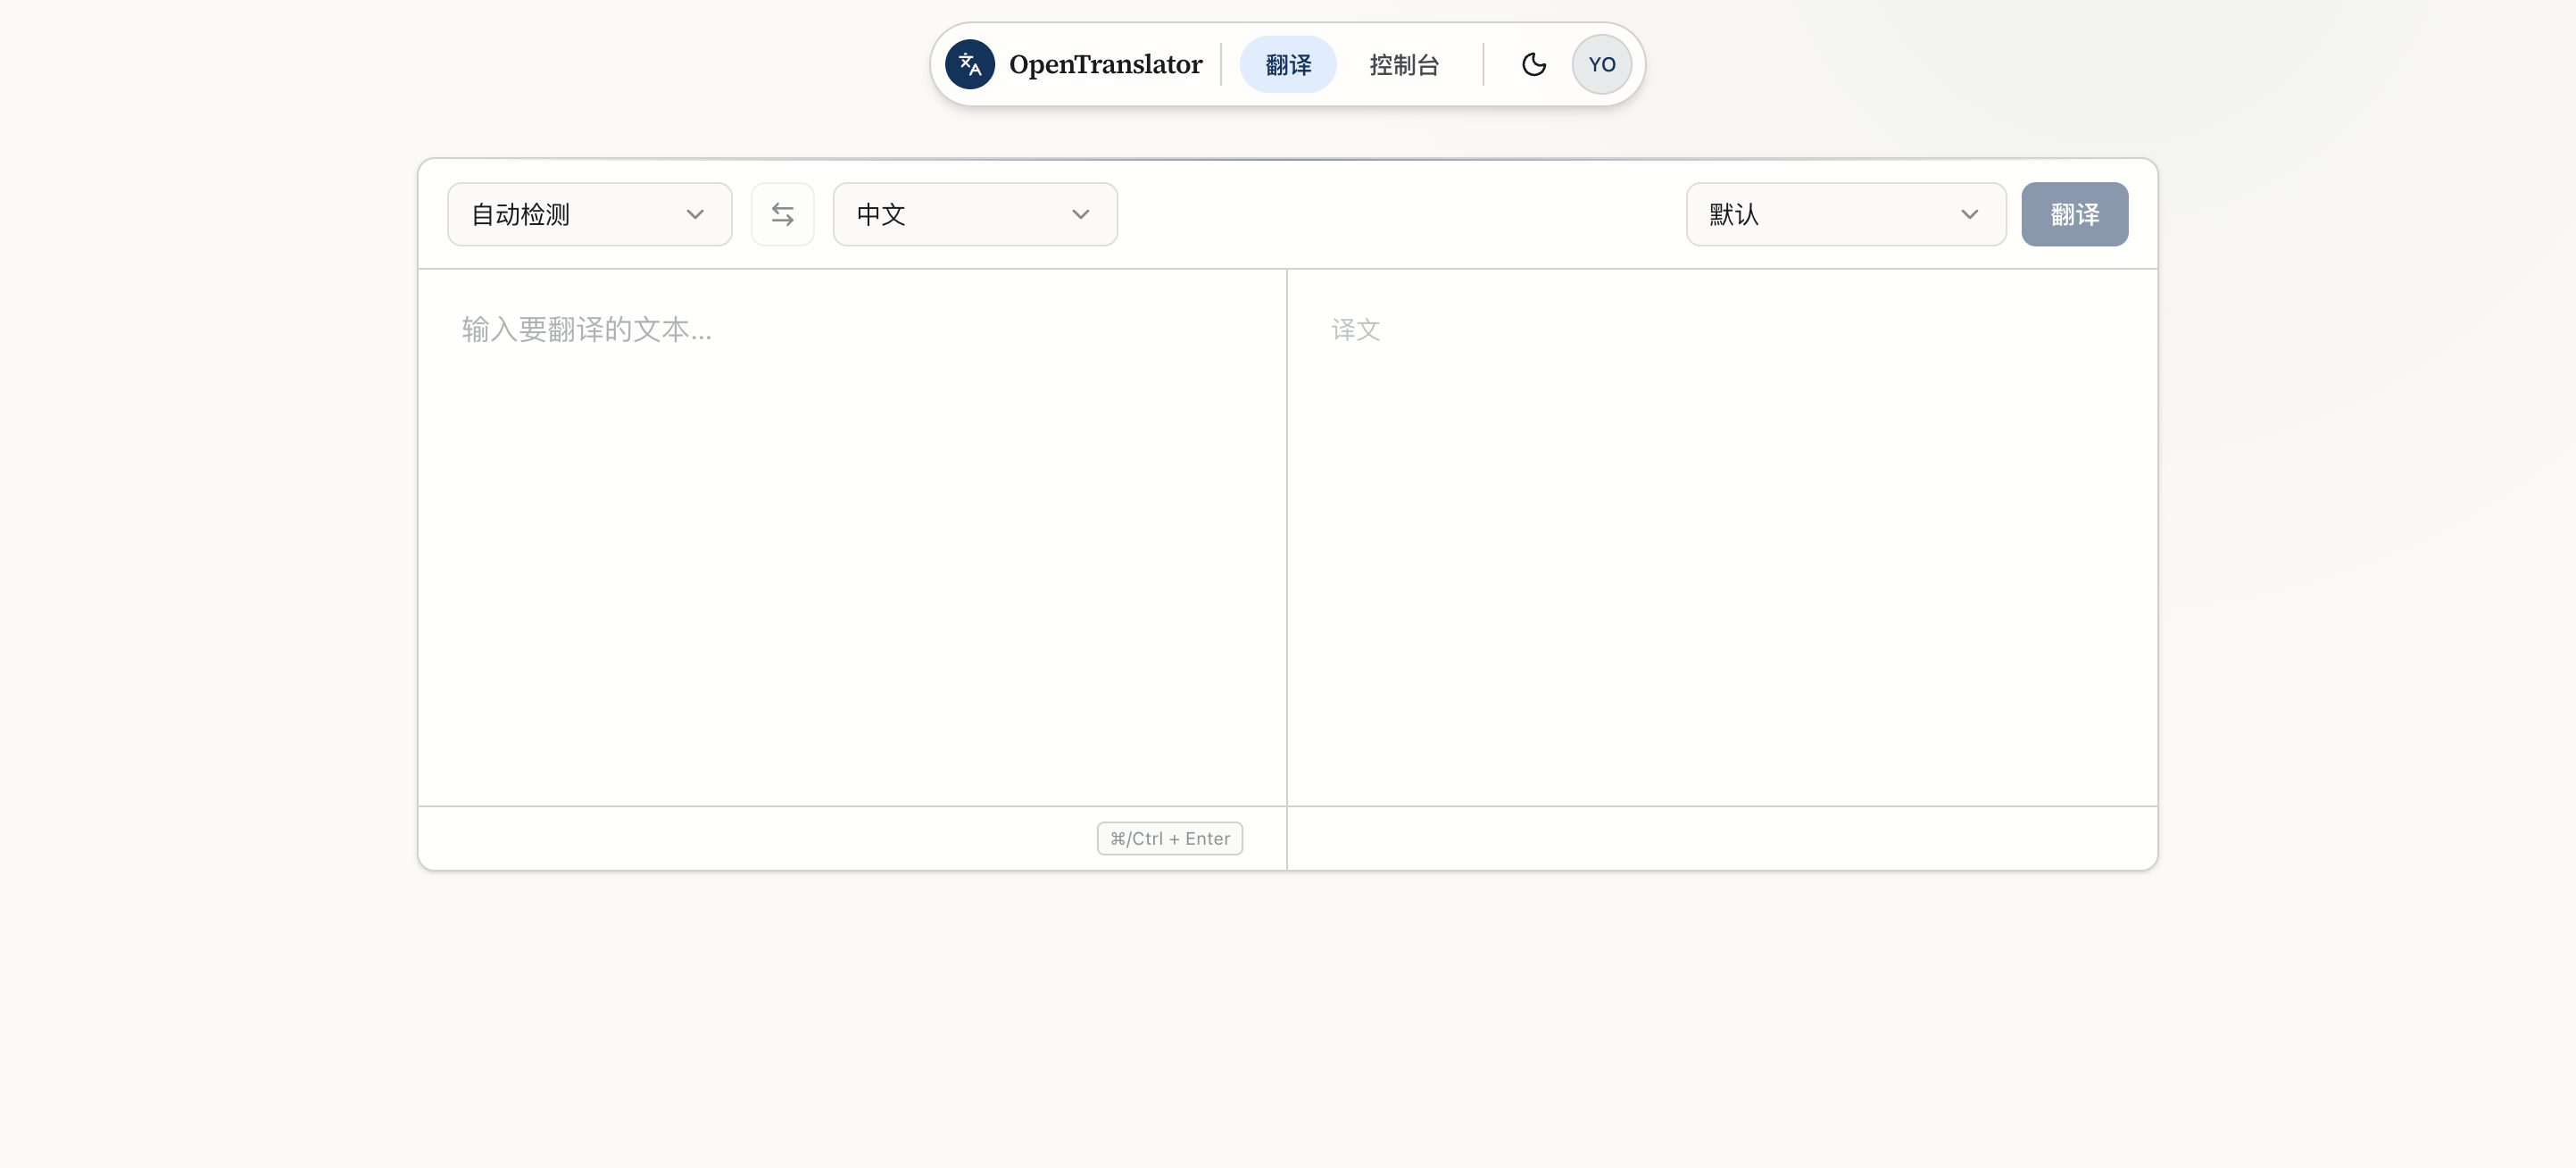
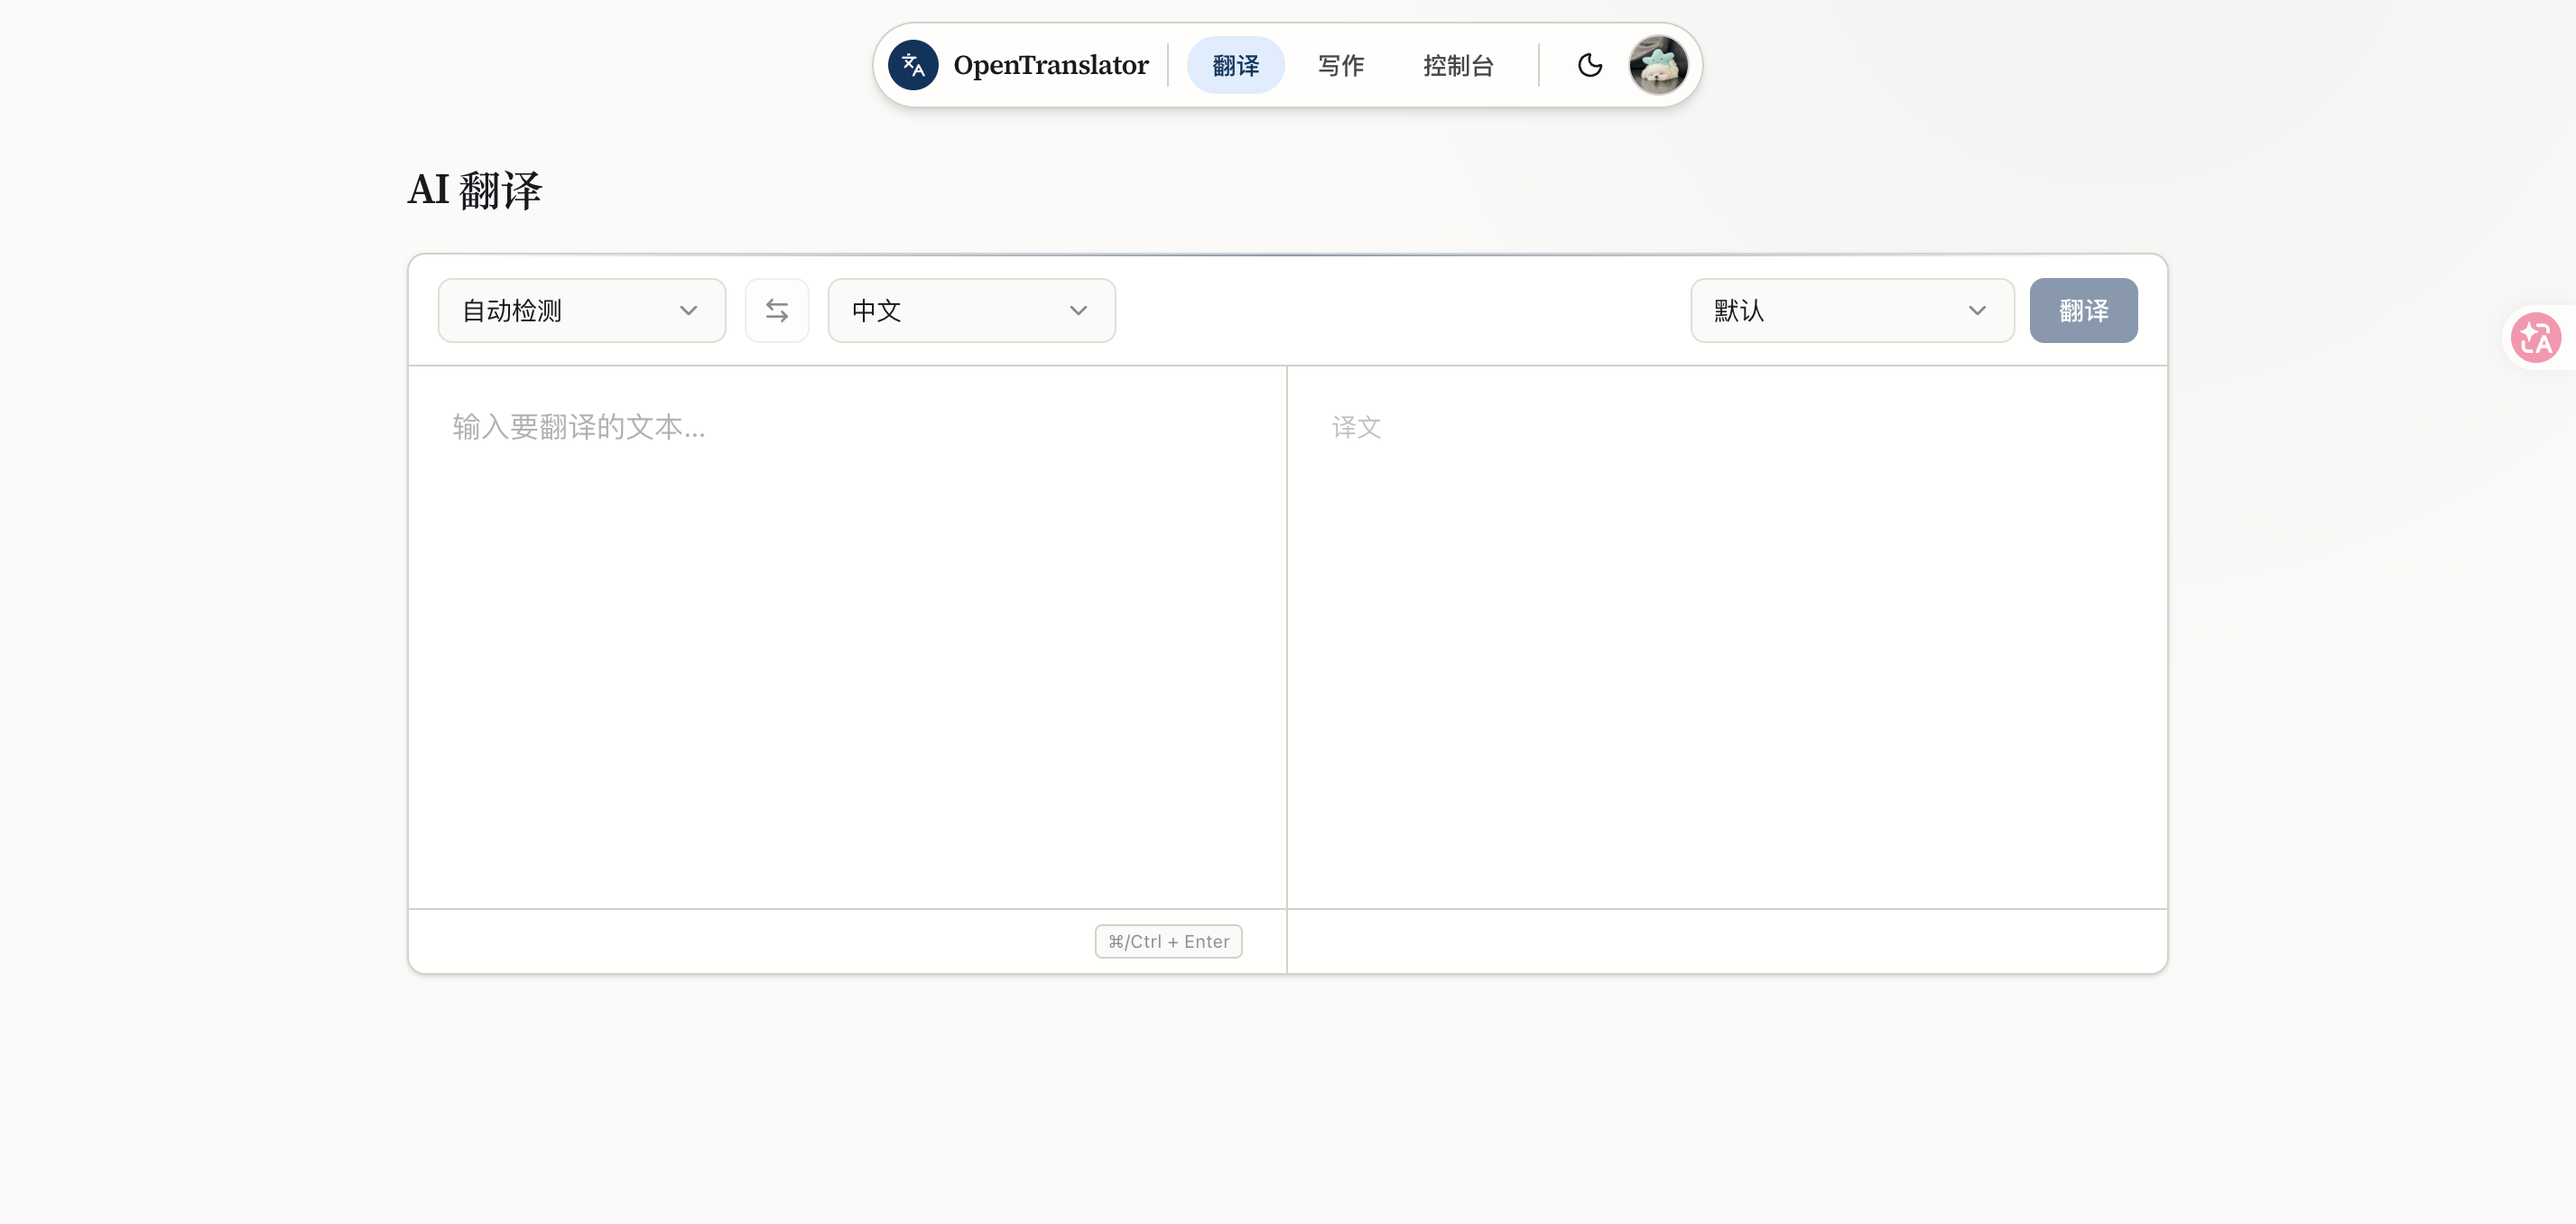
Refactor code structure for improved readability and maintainability

diff --git a/web/src/routes/dashboard/OverviewSection.tsx b/web/src/routes/dashboard/OverviewSection.tsx
@@ -1,6 +1,6 @@
-import { useEffect, useState } from "react";
+import { useEffect, useMemo, useState } from "react";
 import { Activity, FileText, AlertCircle } from "lucide-react";
-import type { UsageSummary } from "@opentranslator/shared-types";
+import type { ProviderRecord, UsageSummary } from "@opentranslator/shared-types";
 import { apiGet, ApiError } from "@/lib/api-client";
 import { useTranslation } from "@/lib/i18n";
 import {
@@ -23,12 +23,22 @@ import { Alert, AlertDescription } from "@/components/ui/alert";
 export function OverviewSection() {
   const { t } = useTranslation();
   const [usage, setUsage] = useState<UsageSummary | null>(null);
+  const [providers, setProviders] = useState<ProviderRecord[]>([]);
   const [error, setError] = useState<string | null>(null);
+
+  const providerNames = useMemo(
+    () => new Map(providers.map((p) => [p.id, p.displayName])),
+    [providers],
+  );
 
   async function load() {
     try {
-      const res = await apiGet<{ usage: UsageSummary }>("/api/admin/usage");
-      setUsage(res.usage);
+      const [usageRes, providersRes] = await Promise.all([
+        apiGet<{ usage: UsageSummary }>("/api/admin/usage"),
+        apiGet<{ providers: ProviderRecord[] }>("/api/admin/providers"),
+      ]);
+      setUsage(usageRes.usage);
+      setProviders(providersRes.providers);
       setError(null);
     } catch (e) {
       setError(e instanceof ApiError ? e.message : String(e));
@@ -80,8 +90,8 @@ export function OverviewSection() {
                   <TableBody>
                     {usage.byProvider.map((p) => (
                       <TableRow key={p.providerId}>
-                        <TableCell className="font-mono text-xs text-muted-foreground">
-                          {p.providerId.slice(0, 8)}
+                        <TableCell>
+                          {providerNames.get(p.providerId) ?? p.providerId}
                         </TableCell>
                         <TableCell className="text-right tabular-nums">
                           {p.requests}

diff --git a/.ai/architecture.md b/.ai/architecture.md
@@ -12,7 +12,7 @@
 
 ## 入口点
 
-- **后端入口** `src/index.ts` — Hono app。挂 `logger` + `cors`；`/api/ping` 健康检查；`/api/init/:secret` 建表（JWT_SECRET 守卫，幂等）；`/api/translate`、`/api/auth` 公开；`/api/admin/*` 挂在 `authMiddleware` 之后（需 JWT）；catch-all 把非 `/api` 请求交给 `ASSETS` 绑定服务 SPA。`import "./providers"` 以副作用在启动时注册全部 adapter。导出 `RateLimiter` DO。
+- **后端入口** `src/index.ts` — Hono app。挂 `logger` + `cors`；`/api/ping` 健康检查；`/api/init/:secret` 建表（JWT_SECRET 守卫，幂等）；`/api/translate`、`/api/write`、`/api/auth` 公开；`/api/admin/*` 挂在 `authMiddleware` 之后（需 JWT）；catch-all 把非 `/api` 请求交给 `ASSETS` 绑定服务 SPA。`import "./providers"` 以副作用在启动时注册全部 adapter。导出 `RateLimiter` DO。
 - **前端入口** `web/src/main.tsx` → `web/src/App.tsx`（React Router）。
 - **Worker 配置** `wrangler.toml` — `[assets]` 指向 `./dist`，`run_worker_first = true`；D1/KV 绑定在 Dashboard 网页配（toml 里注释掉）。
 
@@ -27,11 +27,12 @@ src/                          # Hono Worker 后端（REST/SSE + 静态资源）
     registry.ts, schema.ts    #   providerRegistry / Dashboard 表单字段
     prompt.ts, sse.ts         #   共用提示词 / SSE 流式
     openai.ts, claude.ts,     #   各家 adapter（实现 TranslationProvider）
-    gemini.ts, azure-openai.ts
-  routes/                     #   translate / auth / admin-{providers,settings,features,glossary,usage}
+    gemini.ts, deepl.ts, cloudflare.ts
+  routes/                     #   translate / write / auth / admin-*
   db/                         #   schema.sql + queries.ts + init.ts（幂等初始化器）
   durable-objects/            #   rate-limiter.ts（每 IP 滑动窗口）
-  features/                   #   功能模块后端（translate, glossary：manifest + handler/store）
+  features/                   #   功能模块后端（translate, write, glossary, ai-experts, public-access）
+  experts/                    #   AI expert 插件（plugins/*.yml → bundled.ts）
   middleware/                 #   auth.ts, rate-limit.ts
   auth/session.ts
   lib/                        #   jwt, bytes, password, crypto, cache
@@ -39,8 +40,8 @@ src/                          # Hono Worker 后端（REST/SSE + 静态资源）
 web/                          # Vite + React SPA（构建产物输出到根 dist/）
   vite.config.ts              #   ★ build.outDir=../dist；dev 把 /api 代理到 :8787
   src/main.tsx, App.tsx       #   入口 + 路由
-  src/routes/                 #   translator / dashboard(Overview/Providers/Settings/Modules) / login
-  src/features/               #   功能模块前端（TranslationSettings, GlossaryManager）+ registry.ts
+  src/routes/                 #   translator / write / dashboard / login / setup-required
+  src/features/               #   功能模块前端（AiExpertsManager, PublicAccessSettings）+ registry.ts
   src/components/RootLayout.tsx
   src/lib/                    #   api-client, languages, auth
 shared-types/                 # 前后端共享类型，别名 @opentranslator/shared-types 引用
@@ -51,3 +52,16 @@ wrangler.toml                 # Worker 配置（[assets] 静态资源绑定）
 
 - **新增供应商**：`src/providers/` 加 adapter（实现 `TranslationProvider`；OpenAI 兼容可复用 `openai.ts`）→ `src/providers/index.ts` 加一行 `providerRegistry.register(...)` → `src/providers/schema.ts` 加表单字段。核心路由不动。
 - **新增功能模块**：`web/src/features/` 加组件并在 `features/registry.ts` 注册 → `src/features/` 加后端 manifest/handler → Dashboard 模块管理里 DB 开关启用。
+- **新增 AI expert**：`src/experts/plugins/*.yml` 加定义 → `pnpm bundle-experts` 重生成 `bundled.ts`。解析逻辑在 `src/experts/resolve.ts`、`registry.ts`。
+
+## 大文件与所有权
+
+以下文件行数多或为自动生成物。改前先确认边界与验证命令；完整非目标见 `project.md`。
+
+| 文件 | 性质 | 边界 / 怎么改 | 验证 |
+|---|---|---|---|
+| `src/experts/bundled.ts` | 生成物 | **禁止手改**。改 `src/experts/plugins/*.yml` 或 `scripts/bundle-experts.mjs`，再跑 `pnpm bundle-experts` | `pnpm typecheck:api` |
+| `web/src/routes/dashboard/ProvidersSection.tsx` | Dashboard 供应商 UI | 表格、模型选择、表单展示；adapter 逻辑在 `src/providers/`，契约在 `shared-types/` | `pnpm typecheck:web`；手动配供应商 |
+| `web/src/routes/write/WritePage.tsx` | Write 模式页面 | 写作/润色 UI 与交互；后端 handler 在 `src/features/write` 与 `/api/write` | `pnpm typecheck:web` |
+| `src/db/audit.ts` | DB 一致性审计 | 审计与修复逻辑；schema 变更须同步 `src/db/schema.sql` | `pnpm typecheck:api`；`pnpm db:init` 本地验证 |
+| `src/index.ts` | 后端入口 | 路由挂载顺序、中间件分层；非路由任务不要动 | `pnpm typecheck:api`；`curl /api/ping` |

diff --git a/.cursor/skills/opentranslator-review-pr/SKILL.md b/.cursor/skills/opentranslator-review-pr/SKILL.md
@@ -1,0 +1,25 @@
+---
+name: opentranslator-review-pr
+description: Review a pull request for OpenTranslator against .ai/ conventions and security rules. Use before merging / when asked to review a PR / 看看PR.
+---
+
+# Review PR
+
+Review a pull request against project conventions and security rules in `.ai/`.
+
+## Steps
+
+1. **Get the diff**: `git diff` against the branch base, or read the PR description and changed files.
+2. **Read context**: skim `.ai/coding-style.md`, `.ai/workflow.md`, `.ai/architecture.md`, and `.ai/security.md`.
+3. **Code review**: run the code-reviewer subagent on the diff, or review manually against `.ai/coding-style.md` and `.ai/workflow.md`.
+4. **Security review**: run the security-auditor subagent on the diff against `.ai/security.md`. Skip for documentation-only changes.
+5. **Architecture check** (if structural): verify layer boundaries against `.ai/architecture.md`. Skip for small fixes with no cross-layer impact.
+6. **Synthesize**: combine findings. Present a summary with P0/P1/P2 items and a final verdict.
+7. **Verification check**: confirm the commands from `.ai/workflow.md` Verification section were run for the change types involved.
+
+## Project-specific checks
+
+- New admin routes must be behind `authMiddleware` in `src/index.ts`.
+- New providers must register in `src/providers/index.ts`, not hardcoded in core routes.
+- Schema changes must be validated locally with `pnpm db:init` before remote init.
+- No secrets, API keys, or JWT_SECRET in diff, logs, or docs.

diff --git a/README.en.md b/README.en.md
@@ -12,7 +12,7 @@
 
 [中文](./README.md) · [Features](#-features) · [Screenshots](#-screenshots) · [Quick Start](#-quick-start) · [Deploy](#-deploy) · [Extensibility](#-extensibility) · [Roadmap](#-roadmap)
 
-<img src="./docs/images/OpenTranslator-HomePage.png" alt="OpenTranslator translation page" width="800" />
+<img src="./docs/images/OpenTranslator-homepage.png" alt="OpenTranslator translation page" width="800" style="border-radius: 12px;" />
 
 </div>
 
@@ -37,25 +37,31 @@
 
 Side-by-side bilingual view, auto language detection, model switching, and keyboard shortcuts — ready out of the box.
 
-<img src="./docs/images/OpenTranslator-HomePage.png" alt="Translation page" width="800" />
+<img src="./docs/images/OpenTranslator-homepage.png" alt="Translation page" width="800" style="border-radius: 12px;" />
+
+### AI writing
+
+Polish, style, formality, and conciseness tools with side-by-side input and output.
+
+<img src="./docs/images/OpenTranslator-write.png" alt="AI writing" width="800" style="border-radius: 12px;" />
 
 ### Admin dashboard
 
-**Usage overview** — Total requests, character counts, and per-provider usage at a glance.
+**Usage overview** — Total requests, character counts, and per-provider usage at a glance, plus user profile management.
 
-<img src="./docs/images/OpenTranslator-Dashboard1.png" alt="Dashboard usage overview" width="800" />
+<img src="./docs/images/OpenTranslator-dashboard.png" alt="Dashboard usage overview" width="800" style="border-radius: 12px;" />
 
-**Public access** — Choose which models anonymous visitors can use, set a public default, and configure anonymous rate limits.
+**Providers** — Add and edit multiple AI providers, switch models, and set the public default.
 
-<img src="./docs/images/OpenTranslator-Dashboard2.png" alt="Dashboard public access" width="800" />
+<img src="./docs/images/OpenTranslator-供应商.png" alt="Dashboard providers" width="800" style="border-radius: 12px;" />
 
 **Site settings** — Signed-in user rate limits, KV translation cache, feature module toggles, and database maintenance.
 
-<img src="./docs/images/OpenTranslator-Dashboard3.png" alt="Dashboard site settings" width="800" />
+<img src="./docs/images/OpenTranslator-设置.png" alt="Dashboard site settings" width="800" style="border-radius: 12px;" />
 
-**Glossary** — Maintain term pairs per target language; they are injected into prompts to enforce consistent wording.
+**AI experts** — Scene-specific translation strategies inspired by Immersive Translate — enable experts for tech, finance, GitHub, and more.
 
-<img src="./docs/images/OpenTranslator-Dashboard4.png" alt="Dashboard glossary" width="800" />
+<img src="./docs/images/OpenTranslator-AI专家.png" alt="Dashboard AI experts" width="800" style="border-radius: 12px;" />
 
 ---
 

diff --git a/README.md b/README.md
@@ -12,7 +12,7 @@
 
 [English](./README.en.md) · [特性](#-特性) · [截图](#-截图) · [快速开始](#-快速开始) · [部署](#-部署) · [扩展](#-扩展点) · [路线图](#-路线图)
 
-<img src="./docs/images/OpenTranslator-HomePage.png" alt="OpenTranslator 翻译页" width="800" />
+<img src="./docs/images/OpenTranslator-homepage.png" alt="OpenTranslator 翻译页" width="800" style="border-radius: 12px;" />
 
 </div>
 
@@ -37,25 +37,31 @@
 
 双语对照、语言自动检测、模型切换与快捷键翻译，开箱即用。
 
-<img src="./docs/images/OpenTranslator-HomePage.png" alt="翻译页" width="800" />
+<img src="./docs/images/OpenTranslator-homepage.png" alt="翻译页" width="800" style="border-radius: 12px;" />
+
+### AI 写作
+
+润色、风格、正式度与精简等写作辅助，双栏对照即时输出。
+
+<img src="./docs/images/OpenTranslator-write.png" alt="AI 写作" width="800" style="border-radius: 12px;" />
 
 ### 管理后台
 
-**用量概览** — 总请求数、总字符数与各供应商用量一目了然。
+**用量概览** — 总请求数、总字符数与各供应商用量一目了然，并可管理用户资料。
 
-<img src="./docs/images/OpenTranslator-Dashboard1.png" alt="Dashboard 用量概览" width="800" />
+<img src="./docs/images/OpenTranslator-dashboard.png" alt="Dashboard 用量概览" width="800" style="border-radius: 12px;" />
 
-**公开访问** — 勾选匿名访客可用的模型、指定公开默认，并设置匿名限流。
+**供应商** — 新增、编辑多家 AI 供应商，切换模型并设置公开默认。
 
-<img src="./docs/images/OpenTranslator-Dashboard2.png" alt="Dashboard 公开访问" width="800" />
+<img src="./docs/images/OpenTranslator-供应商.png" alt="Dashboard 供应商" width="800" style="border-radius: 12px;" />
 
 **站点设置** — 登录用户限流、KV 翻译缓存、功能模块开关与数据库维护。
 
-<img src="./docs/images/OpenTranslator-Dashboard3.png" alt="Dashboard 站点设置" width="800" />
+<img src="./docs/images/OpenTranslator-设置.png" alt="Dashboard 站点设置" width="800" style="border-radius: 12px;" />
 
-**术语库** — 按目标语言维护术语对，翻译时自动注入提示词强制替换。
+**AI 专家** — 基于沉浸式翻译的专业策略，按场景启用科技、金融、GitHub 等领域专家。
 
-<img src="./docs/images/OpenTranslator-Dashboard4.png" alt="Dashboard 术语库" width="800" />
+<img src="./docs/images/OpenTranslator-AI专家.png" alt="Dashboard AI 专家" width="800" style="border-radius: 12px;" />
 
 ---
 

diff --git a/.cursor/skills/opentranslator-implement-feature/SKILL.md b/.cursor/skills/opentranslator-implement-feature/SKILL.md
@@ -1,0 +1,21 @@
+---
+name: opentranslator-implement-feature
+description: Implement a new feature in OpenTranslator, following project conventions from .ai/ files. Use when asked to add a feature / implement something / build X / 加功能.
+---
+
+# Implement Feature
+
+Implement a new feature following the conventions defined in `.ai/`:
+
+1. **Read project context**: `.ai/project.md` (what this is), `.ai/architecture.md` (where things go), `.ai/coding-style.md` (how to write), `.ai/workflow.md` (commands and verification).
+2. **Plan the change**: identify which files to modify, which layers are involved, which conventions apply.
+3. **Implement**: write the code following `.ai/coding-style.md` conventions. Use the helpers and patterns documented there, not raw alternatives.
+4. **Verify**: run the commands from `.ai/workflow.md` Verification section for the change type you made.
+5. **Review**: if the change is non-trivial, run code-reviewer or security-auditor subagents before considering it done.
+
+## Project-specific constraints
+
+- **New provider**: add adapter in `src/providers/` → register in `src/providers/index.ts` → add form fields in `src/providers/schema.ts`. OpenAI-compatible vendors can reuse `openai.ts`. Do not touch core routes.
+- **New feature module**: add component in `web/src/features/` and register in `features/registry.ts` → add backend manifest/handler in `src/features/` → enable via Dashboard module DB toggle.
+- **Shared types** go in `shared-types/` via tsconfig path alias `@opentranslator/shared-types` — never duplicate in frontend and backend separately.
+- **Admin routes** must sit behind `authMiddleware` (see `src/index.ts`).

diff --git a/.cursor/skills/opentranslator-release-check/SKILL.md b/.cursor/skills/opentranslator-release-check/SKILL.md
@@ -1,0 +1,18 @@
+---
+name: opentranslator-release-check
+description: Verify deploy readiness for OpenTranslator — run typecheck, confirm no secrets in diff, validate DB migration safety. Use before deploy / 发布前检查 / 部署前检查.
+---
+
+# Release Check
+
+Verify that OpenTranslator is ready to deploy. This project has no version tag / changelog flow — "release" means deploying to Cloudflare edge. See `.ai/workflow.md` Deploy section.
+
+## Steps
+
+1. **Read deploy process**: check `.ai/workflow.md` for deploy paths (Cloudflare Git auto-deploy on `main` push vs local `pnpm deploy`).
+2. **Run typecheck**: `pnpm typecheck` (api + web). Both must pass.
+3. **Check for secrets**: scan the diff for `JWT_SECRET`, `ENCRYPTION_KEY`, `.dev.vars` content, or plaintext API keys. See `.ai/security.md`.
+4. **DB migration safety**: if `src/db/schema.sql` changed, confirm local `pnpm db:init` was run and tested. Do not run `db:init:remote` without explicit approval.
+5. **Manual smoke test** (recommended): `pnpm dev` → verify `/api/ping`, login, and a translation SSE stream.
+6. **Post-deploy reminder**: if schema changed, hit `/api/init/<JWT_SECRET>` once on the deployed worker (idempotent).
+7. **Report**: summarize results. If any check fails, report what failed and the fix needed before deploy.

diff --git a/.ai/project.md b/.ai/project.md
@@ -6,6 +6,23 @@ OpenTranslator 是 DeepL 风格的在线 AI 翻译器：以大模型为底座，
 
 **塑造工作方式的关键点**：这是「单 Worker 合并部署」架构——前端和后端在同一个 Cloudflare Worker 里，改任意一端都影响同一个部署单元。扩展（新增供应商 / 功能模块）走注册表 + DB 开关，核心路由不动。
 
+## 范围与非目标
+
+**在范围内：**
+
+- 供应商 adapter、AI experts、功能模块（注册表 + DB 开关扩展）
+- Dashboard / 翻译 / Write 页面功能迭代
+- `shared-types/` 共享契约、D1 schema 增量迁移
+
+**非目标（除非任务明确要求，否则不要做）：**
+
+- 不改 `src/index.ts` 的路由挂载顺序与中间件分层（admin 路由必须在 `authMiddleware` 之后）
+- 不手改 `src/experts/bundled.ts`（生成物，改 YAML 源文件后重跑 bundle）
+- 不在核心路由或页面里硬编码新供应商 / 功能模块（走 `providers/index.ts`、`features/registry.ts`）
+- 不在前后端各写一份类型（统一放 `shared-types/`）
+- 不做破坏性 DB 操作（远程 init / 清库见 `security.md`）
+- 不为小改动引入新框架、构建链或第二套部署单元
+
 ## 语言
 
 AI agent 用**中文（zh-CN）**回复。涵盖对话回复、提交信息、agent 建议的代码注释与子代理输出。代码、标识符、命令保持英文。

diff --git a/AGENTS.md b/AGENTS.md
@@ -1,13 +1,8 @@
-<!-- ai-init-version: 2 -->
+<!-- ai-init-version: 3 -->
 # OpenTranslator — opencode Instructions
 
-Project knowledge is in `.ai/` (shared with Claude Code). The `instructions` field in `opencode.jsonc` loads these files automatically. If you're reading this outside opencode, read the `.ai/` files manually:
+Project knowledge is in `.ai/` (shared with Claude Code and Cursor). The `instructions` field in `opencode.jsonc` loads these files automatically in opencode.
 
-- `.ai/project.md` — project background, response language
-- `.ai/architecture.md` — tech stack, repository map, entry points
-- `.ai/coding-style.md` — conventions, helpers, gotchas
-- `.ai/workflow.md` — commands, verification, release flow
-- `.ai/testing.md` — test strategy, per-change verification
-- `.ai/security.md` — safety rules, destructive-op guardrails
+**`.ai/` file index** — listed in `CLAUDE.md` at the repo root (read before non-trivial work).
 
 Put personal overrides in `AGENTS.local.md` (gitignored).

diff --git a/CLAUDE.md b/CLAUDE.md
@@ -1,4 +1,4 @@
-<!-- ai-init-version: 2 -->
+<!-- ai-init-version: 3 -->
 # OpenTranslator — Claude Code Instructions
 
 Project knowledge is distributed across `.ai/` (shared with opencode). Read these files before non-trivial work: